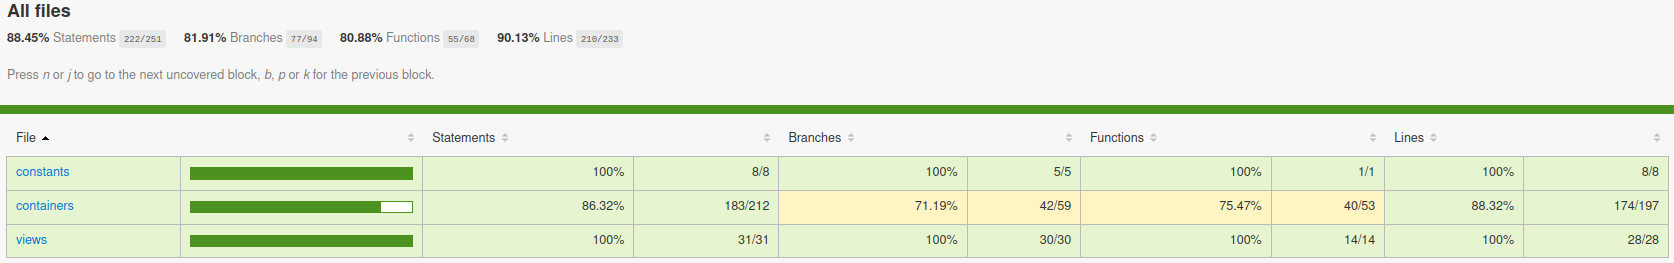
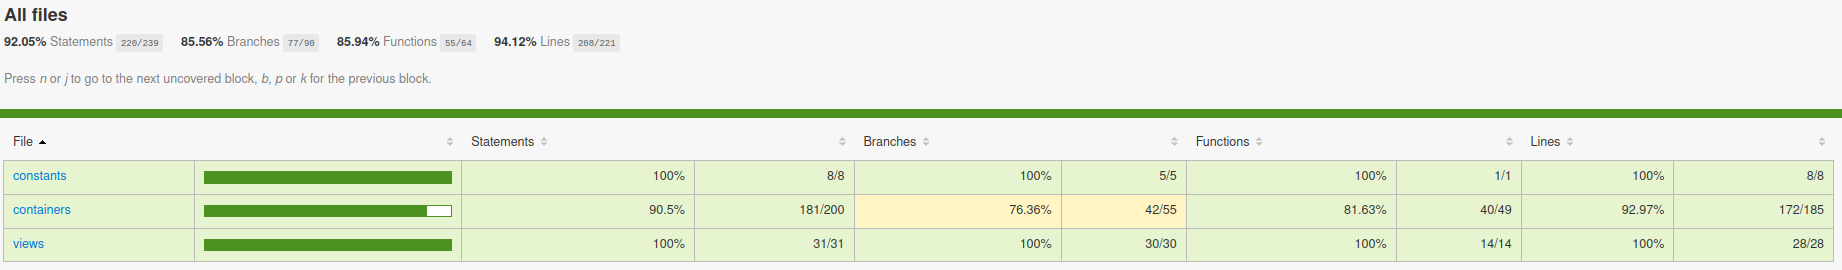
rajout de tests

diff --git a/src/__tests__/Bills.js b/src/__tests__/Bills.js
@@ -13,6 +13,8 @@ import router from "../app/Router.js";
 import Bills from "../containers/Bills.js"
 import mockStore from "../__mocks__/store"
 
+import { filteredBills} from "../containers/Dashboard.js";
+
 // Je creer ma constante onNavigate pour gerer les routes
 const onNavigate = (pathname) => {
 	document.body.innerHTML = ROUTES({ pathname, data: bills })
@@ -20,6 +22,29 @@ const onNavigate = (pathname) => {
 
 
 describe("Given I am connected as an employee", () => {
+  describe('When I am on Bills page, there are bills, and there is one pending', () => {
+    test('Then, getBills by pending status should return 1 bill', () => {
+      const getAllBills = filteredBills(bills, "pending")
+      expect(getAllBills.length).toBe(1)
+    })
+  })
+  // Quand je suis sur la page Factures, il y a des factures, et il y en a une acceptée
+  describe('When I am on Bills page, there are bills, and there is one accepted', () => {
+    //Ensuite, getBills par statut accepté devrait renvoyer 1 facture
+    test('Then, getBills by accepted status should return 1 bill', () => {
+      const getAllBills = filteredBills(bills, "accepted")
+      expect(getAllBills.length).toBe(1)
+    })
+  })
+  // Quand je suis sur la page Factures, il y a des factures, et il y en a deux refusées
+  describe('When I am on Bills page, there are bills, and there is two refused', () => {
+    // Ensuite, getBills par statut accepté devrait renvoyer 2 factures
+    test('Then, getBills by accepted status should return 2 bills', () => {
+      const getAllBills = filteredBills(bills, "refused")
+      expect(getAllBills.length).toBe(2)
+    })
+  })
+  // Quand je suis sur la page Factures
   describe('When I am on Bills Page', () => {	
     test("Then bill icon in vertical layout should be highlighted", async () => {
 

diff --git a/src/containers/Login.js b/src/containers/Login.js
@@ -53,44 +53,42 @@ export default class Login {
         this.onNavigate(ROUTES_PATH['Dashboard'])
         this.PREVIOUS_LOCATION = ROUTES_PATH['Dashboard']
         PREVIOUS_LOCATION = this.PREVIOUS_LOCATION
-        document.body.style.backgroundColor = "#fff"
+        document.body.style.backgroundColor="#fff"
       })
   }
-  
 
   // not need to cover this function by tests
+  /* istanbul ignore next */
   login = (user) => {
     if (this.store) {
-      console.log(this.store)
       return this.store
-        .login(JSON.stringify({
-          email: user.email,
-          password: user.password,
-        })).then(({ jwt }) => {
-          localStorage.setItem('jwt', jwt)
-        })
+      .login(JSON.stringify({
+        email: user.email,
+        password: user.password,
+      })).then(({jwt}) => {
+        localStorage.setItem('jwt', jwt)
+      })
     } else {
       return null
     }
   }
 
   // not need to cover this function by tests
+  /* istanbul ignore next */
   createUser = (user) => {
     if (this.store) {
       return this.store
-        .users()
-        .create({
-          data: JSON.stringify({
-            type: user.type,
-            name: user.email.split('@')[0],
-            email: user.email,
-            password: user.password,
-          })
-        })
-        .then(() => {
-          console.log(`User with ${user.email} is created`)
-          return this.login(user)
-        })
+      .users()
+      .create({data:JSON.stringify({
+        type: user.type,
+        name: user.email.split('@')[0],
+        email: user.email,
+        password: user.password,
+      })})
+      .then(() => {
+        console.log(`User with ${user.email} is created`)
+        return this.login(user)
+      })
     } else {
       return null
     }

diff --git a/src/__tests__/Login.js b/src/__tests__/Login.js
@@ -1,7 +1,7 @@
 /**
  * @jest-environment jsdom
  */
-import '@testing-library/jest-dom'
+
 import LoginUI from "../views/LoginUI"
 import Login from "../containers/Login.js"
 import { ROUTES } from "../constants/routes"
@@ -195,7 +195,6 @@ describe("Given that I am a admin on login page", () => {
         writable: true,
       })
 
-      // we have to mock navigation to test it
       const onNavigate = (pathname) => {
         document.body.innerHTML = ROUTES({ pathname })
       }
@@ -232,3 +231,4 @@ describe("Given that I am a admin on login page", () => {
     })
   })
 })
+

diff --git a/src/__tests__/NewBill.js b/src/__tests__/NewBill.js
@@ -16,9 +16,9 @@ import router from '../app/Router.js'
 import store from '../__mocks__/store.js'
 import userEvent from '@testing-library/user-event'
 
-/*
+
 import { bills } from '../fixtures/bills.js'
-*/
+
 
 jest.mock('../app/Store', () => mockStore)
 
@@ -167,4 +167,5 @@ describe('Since I am a user logged in as an Employee', () => {
 			expect(messageRetour).toBeTruthy()
 		})
 	})
+	
 })
